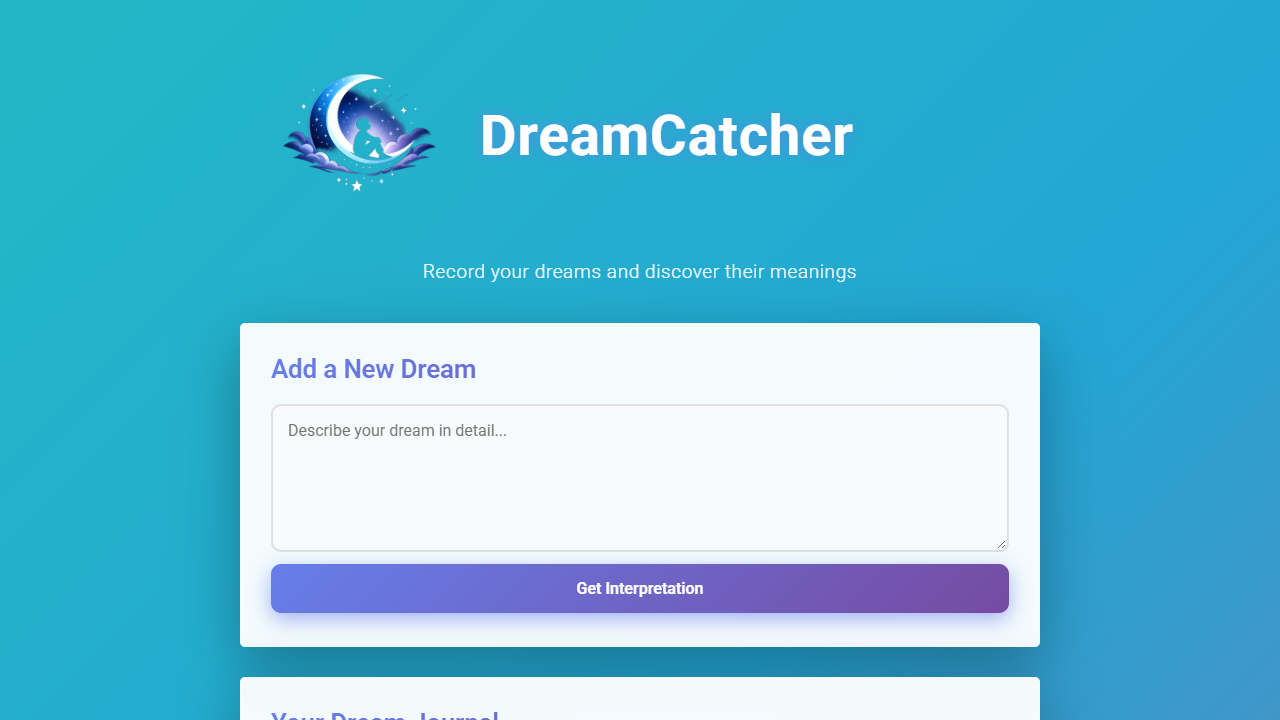
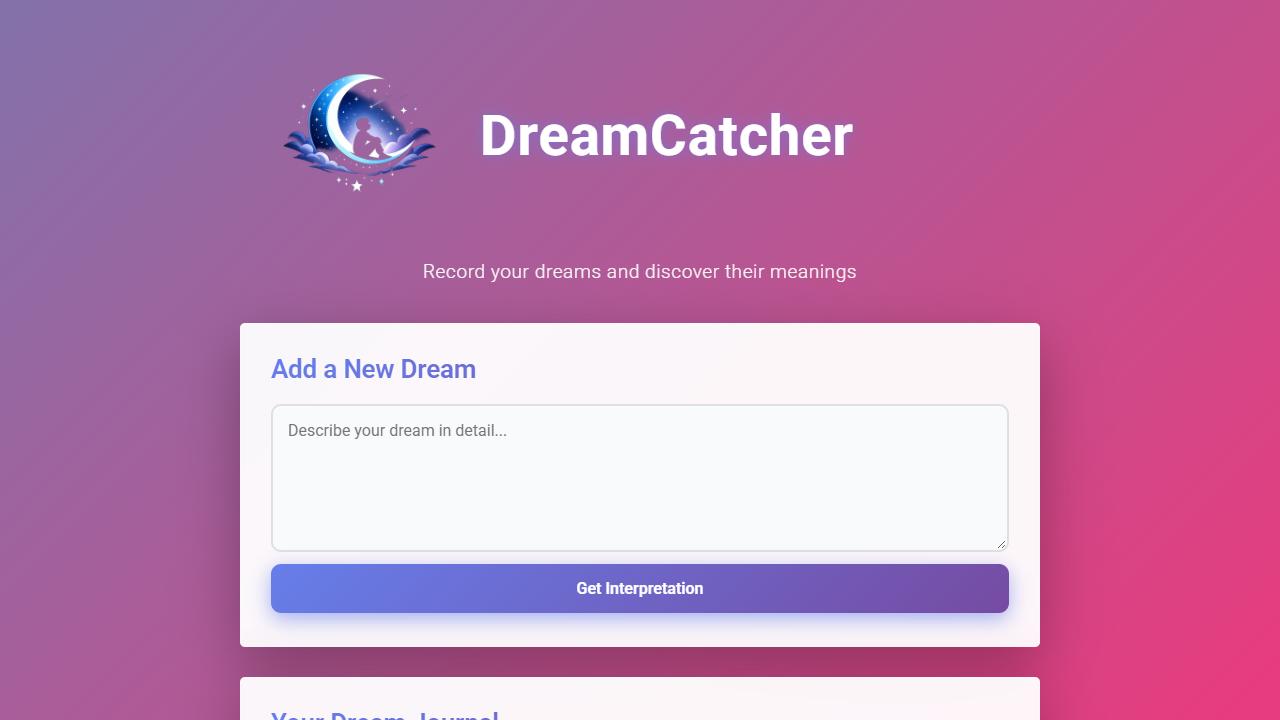
Use GitHub Render service in walkthrough

diff --git a/docs/QUICKSTART.md b/docs/QUICKSTART.md
@@ -4,7 +4,7 @@ Short notes for testing the app locally and deploying a staging copy on Render.
 
 ## 1. Test the live app
 
-Open [dream-catcher-5355.onrender.com](https://dream-catcher-5355.onrender.com/),
+Open [dream-catcher-github.onrender.com](https://dream-catcher-github.onrender.com/),
 enter a dream, and select **Get Interpretation**. The app saves the dream and
 shows the generated interpretation below the form.
 
